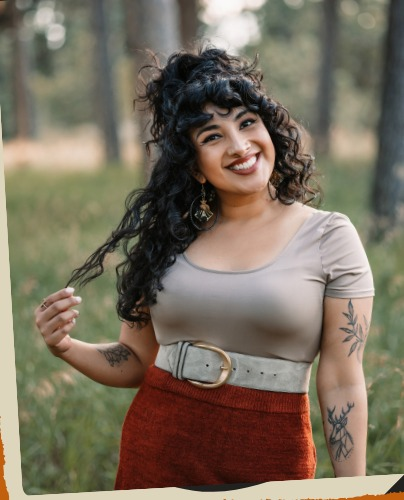
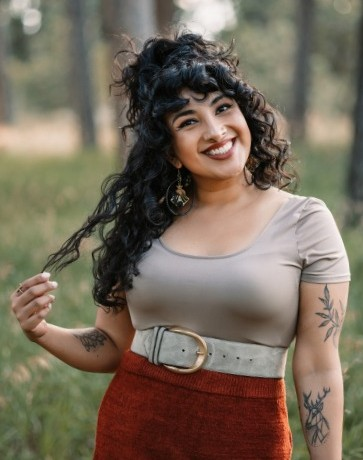
Restyle to match the resume: serif display, condensed sans, rules, topographic panels
Claude-Session: https://claude.ai/code/session_018WtTTL8vv3fxFjCsvYoeKi

diff --git a/index.html b/index.html
@@ -13,19 +13,19 @@
 <meta name="description" content="Bren Spector, senior graphic designer. Brand, print, pattern, art direction, events, and digital work.">
 <link rel="preconnect" href="https://fonts.googleapis.com">
 <link rel="preconnect" href="https://fonts.gstatic.com" crossorigin>
-<link rel="stylesheet" href="https://fonts.googleapis.com/css2?family=Bakbak+One&family=Archivo:ital,wght@0,400;0,500;0,600;1,400&family=Space+Mono:wght@400;700&display=swap">
+<link rel="stylesheet" href="https://fonts.googleapis.com/css2?family=Noto+Serif+Display:ital,wdth,wght@0,62.5..100,400..700;1,62.5..100,400..700&family=Nunito+Sans:ital,wdth,wght@0,75..100,300..800;1,75..100,300..800&display=swap">
 <style>
 /* Layout: nine pages rebuilt 1:1 from Bren's Canva deck. Each page is a 1920x1080 stage
    (1rem = 20 slide px) scaled to fit the window, stacked and wiped over each other on scroll.
    Shapes and doodles are the deck's own, lifted from the page exports. Phones get a flowing layout. */
 :root{
-  --ink:#212120;
-  --paper:#f8f6f1;
-  --rust:#b5652a;
-  --sand:#ded5bd;
-  --display:"Bakbak One","Arial Black",Impact,sans-serif;
-  --body:"Archivo","Helvetica Neue",Arial,sans-serif;
-  --mono:"Space Mono","Courier New",monospace;
+  --ink:#262522;
+  --paper:#F6F3EC;
+  --rust:#C2611C;
+  --sand:#F6F3EC;
+  --display:"Noto Serif Display",Georgia,serif;
+  --body:"Nunito Sans","Helvetica Neue",Arial,sans-serif;
+  --mono:"Nunito Sans","Helvetica Neue",Arial,sans-serif;
   --ease:cubic-bezier(.22,1,.36,1);
   color-scheme:light;
 }
@@ -34,20 +34,21 @@ html{font-size:16px;scroll-behavior:smooth}
   html{font-size:calc(min(100vw / 1920, 100vh / 1080) * 20)}
 }
 *,*::before,*::after{box-sizing:border-box}
-body{margin:0;background:var(--ink);color:var(--ink);font-family:var(--body);font-size:1rem;line-height:1.5;overflow-x:hidden;-webkit-font-smoothing:antialiased}
+body{margin:0;background:var(--ink);color:var(--ink);font-family:var(--body);font-stretch:85%;font-size:1rem;line-height:1.5;overflow-x:hidden;-webkit-font-smoothing:antialiased}
+.topo{position:absolute;inset:0;background:url(img/topo.png) center/120rem auto;opacity:.13;pointer-events:none}
 img{max-width:100%;display:block}
 p{margin:0}
-h1,h2{margin:0;font-family:var(--display);font-weight:400;line-height:1;letter-spacing:.01em;text-transform:uppercase}
+h1,h2{margin:0;font-family:var(--display);font-stretch:62.5%;font-weight:600;line-height:.92;letter-spacing:-.005em}
 .caption{font-style:italic}
 
 /* ---------- top bar + dots (fixed px, independent of the stage scale) ---------- */
 .bar{position:fixed;inset:0 0 auto 0;z-index:50;display:flex;align-items:center;justify-content:space-between;padding:calc(12px + env(safe-area-inset-top,0px)) 20px 12px;pointer-events:none;mix-blend-mode:difference;color:#fff;font-size:16px}
 .bar > *{pointer-events:auto}
-.brand{font-family:var(--mono);font-size:.78em;letter-spacing:.14em;text-transform:uppercase;text-decoration:none;color:inherit}
-.menu{display:flex;gap:1.6em;font-family:var(--mono);font-size:.74em;letter-spacing:.14em;text-transform:uppercase}
+.brand{font-family:var(--mono);font-stretch:80%;font-weight:600;font-size:.8em;letter-spacing:.16em;text-transform:uppercase;text-decoration:none;color:inherit}
+.menu{display:flex;gap:1.6em;font-family:var(--mono);font-stretch:80%;font-weight:600;font-size:.76em;letter-spacing:.16em;text-transform:uppercase}
 .menu a{color:inherit;text-decoration:none;padding:.3em 0;border-bottom:1.5px solid transparent}
 .menu a:hover,.menu a:focus-visible{border-bottom-color:currentColor;outline:none}
-.play{appearance:none;border:1.5px solid currentColor;background:transparent;color:inherit;font-family:var(--mono);font-size:.74em;letter-spacing:.12em;text-transform:uppercase;padding:.55em 1em;border-radius:999px;cursor:pointer;display:inline-flex;gap:.5em;align-items:center}
+.play{appearance:none;border:1.5px solid currentColor;background:transparent;color:inherit;font-family:var(--mono);font-stretch:80%;font-weight:600;font-size:.76em;letter-spacing:.12em;text-transform:uppercase;padding:.55em 1em;border-radius:999px;cursor:pointer;display:inline-flex;gap:.5em;align-items:center}
 .play:hover,.play:focus-visible{background:#fff;color:#000;outline:none}
 .play svg{width:.7em;height:.7em;fill:currentColor}
 .dots{position:fixed;right:14px;top:50%;transform:translateY(-50%);z-index:50;display:flex;flex-direction:column;gap:10px;margin:0;padding:0;list-style:none;mix-blend-mode:difference}
@@ -97,38 +98,44 @@ h1,h2{margin:0;font-family:var(--display);font-weight:400;line-height:1;letter-s
 #hero{background:var(--paper);color:var(--ink)}
 #hero .blob{transform-origin:50% 50%}
 #hero .blob-simple{left:1rem;top:.6rem;width:94rem;height:53rem;background:var(--ink);border-radius:34% 66% 50% 50% / 38% 40% 60% 62%;z-index:0}
-#hero .star-a{left:66rem;top:0;width:24rem;transform-origin:50% 55%}
+#hero .star-a{display:none}
+#hero .panel{left:60rem;top:0;width:36rem;height:54rem;background:var(--ink);overflow:hidden}
+#hero .panel .topo{position:absolute}
+#hero .panel .tag{position:absolute;left:4rem;bottom:4.2rem;color:var(--paper);font-family:var(--mono);font-stretch:80%;font-weight:600;font-size:.95rem;letter-spacing:.2em;text-transform:uppercase;line-height:1.9}
+#hero .panel .tag b{display:block;font-family:var(--display);font-stretch:62.5%;font-weight:500;font-size:3.6rem;letter-spacing:0;text-transform:none;line-height:1;margin-bottom:.6rem}
 #hero .star-b{left:0;top:26rem;width:23.5rem;transform-origin:45% 50%}
-.name{font-size:14.2rem;line-height:1}
+.name{font-size:15.4rem;line-height:.84;font-weight:500}
 .name span{position:absolute;display:block;white-space:nowrap;transform-origin:left center}
-.name .l1{left:9rem;top:7rem;--rot:-7deg;transform:rotate(var(--rot))}
-.name .l2{left:6.6rem;top:18rem;--rot:-4deg;transform:rotate(var(--rot))}
-.role{left:9.4rem;top:33.6rem;font-family:var(--mono);text-transform:uppercase;letter-spacing:.09em;font-size:1.78rem;line-height:1.3;white-space:nowrap}
-.dotline{left:9.4rem;top:39.4rem;width:10.6rem;border:0;border-top:.22rem dotted currentColor}
-.word{left:9.4rem;top:42.2rem;font-family:var(--mono);font-size:3.7rem;line-height:1}
-.meta{left:9.6rem;top:46.8rem;font-family:var(--mono);font-size:.9rem;letter-spacing:.18em;text-transform:uppercase;opacity:.85;white-space:nowrap}
+.name .l1{left:9rem;top:6.6rem;--rot:0deg}
+.name .l2{left:9rem;top:18.6rem;--rot:0deg;color:var(--rust)}
+.role{left:9.4rem;top:35.2rem;font-family:var(--mono);font-stretch:80%;font-weight:600;text-transform:uppercase;letter-spacing:.14em;font-size:1.3rem;line-height:1.5;white-space:nowrap}
+.dotline{left:9.4rem;top:40.4rem;width:10.6rem;border:0;border-top:.12rem solid var(--rust)}
+.word{left:9.4rem;top:42.4rem;font-family:var(--display);font-stretch:62.5%;font-weight:500;font-size:3.9rem;line-height:1}
+.meta{left:9.5rem;top:47.4rem;font-family:var(--mono);font-stretch:80%;font-weight:600;font-size:.9rem;letter-spacing:.2em;text-transform:uppercase;opacity:.8;white-space:nowrap}
 
 /* ---------- 2 · about ---------- */
 #about .visual{left:-16rem;top:0;width:61rem;height:54rem;object-fit:cover}
-#about h2{left:48.6rem;top:2rem;font-size:8rem;--rot:-5deg;transform:rotate(var(--rot));transform-origin:left bottom;white-space:nowrap}
-#about .text{left:48rem;top:14.4rem;width:46.2rem;font-size:1.7rem;line-height:1.38;letter-spacing:-.005em;text-align:justify;hyphens:manual;display:grid;gap:1.36em}
+#about h2{left:48rem;top:5rem;font-size:7rem;--rot:0deg;white-space:nowrap}
+#about .text{left:48rem;top:15.2rem;width:44rem;font-size:1.62rem;line-height:1.42;text-align:left;hyphens:manual;display:grid;gap:1.3em;padding-top:1.4rem;border-top:.12rem solid var(--rust)}
 #about .text p:first-child{text-align:left}
 
 /* ---------- 3 · how i see it ---------- */
 #how{background:var(--ink);color:var(--paper)}
 #how .blob{transform-origin:50% 50%}
-#how .cloud-a{left:60rem;top:4rem;width:30rem;opacity:.75}
+#how .cloud-a{display:none}
+#how .topo{position:absolute}
 #how .cloud-b{left:5.5rem;top:21.5rem;width:36.5rem}
-#how h2{left:9.4rem;top:9.6rem;font-size:6.4rem;letter-spacing:.03em;white-space:nowrap}
-#how .text{left:9.4rem;top:19.6rem;width:58rem;font-size:1.6rem;line-height:1.4;text-align:left;hyphens:manual;display:grid;gap:1.2em}
+#how h2{left:9.4rem;top:8.6rem;font-size:7rem;white-space:nowrap}
+#how .text{left:9.4rem;top:18.6rem;width:56rem;font-size:1.55rem;line-height:1.45;text-align:left;hyphens:manual;display:grid;gap:1.2em;padding-top:1.4rem;border-top:.12rem solid var(--rust)}
 
 /* ---------- 4 · work (flows at its own height; the only page that is not a fixed slide) ---------- */
 #work{height:auto;min-height:100vh;display:block;padding:0 0 6rem}
-.work-head{position:relative;height:22rem;overflow:hidden}
-.work-head .band{position:absolute;left:50%;top:0;width:128rem;max-width:none;height:auto;transform:translateX(-50%)}
-.work-head .band-star{position:absolute;left:0;top:0;width:14.5rem;transform-origin:30% 40%}
-.work-head h2{position:absolute;left:0;top:5rem;width:100%;text-align:center;color:var(--paper);font-size:6.9rem;--rot:-3deg;transform:rotate(var(--rot));white-space:nowrap}
-.ticker{position:absolute;left:0;right:0;top:13.4rem;overflow:hidden;color:var(--paper);font-family:var(--mono);font-size:.85rem;letter-spacing:.2em;text-transform:uppercase;opacity:.75;-webkit-mask-image:linear-gradient(90deg,transparent,#000 10%,#000 90%,transparent);mask-image:linear-gradient(90deg,transparent,#000 10%,#000 90%,transparent)}
+.work-head{position:relative;height:20rem;overflow:hidden;background:var(--ink)}
+.work-head .topo{position:absolute}
+.work-head .band{display:none}
+.work-head .band-star{display:none}
+.work-head h2{position:absolute;left:0;top:5.2rem;width:100%;text-align:center;color:var(--paper);font-size:6.6rem;--rot:0deg;white-space:nowrap}
+.ticker{position:absolute;left:0;right:0;top:13.4rem;overflow:hidden;color:var(--paper);font-family:var(--mono);font-stretch:80%;font-weight:600;font-size:.85rem;letter-spacing:.22em;text-transform:uppercase;opacity:.75;-webkit-mask-image:linear-gradient(90deg,transparent,#000 10%,#000 90%,transparent);mask-image:linear-gradient(90deg,transparent,#000 10%,#000 90%,transparent)}
 .ticker-track{display:inline-flex;gap:3.5rem;white-space:nowrap;animation:tick 40s linear infinite;padding-left:3.5rem}
 .ticker-track span::after{content:'\00b7';margin-left:3.5rem;opacity:.6}
 @keyframes tick{to{transform:translateX(-50%)}}
@@ -136,29 +143,31 @@ h1,h2{margin:0;font-family:var(--display);font-weight:400;line-height:1;letter-s
 .work-intro{max-width:44rem;margin:4rem auto 3rem;text-align:center;font-size:1.3rem;line-height:1.5;padding:0 2rem}
 .grid{display:grid;grid-template-columns:1fr 1fr;gap:2rem;max-width:88rem;margin:0 auto;padding:0 2rem}
 .tile{margin:0;display:grid;gap:.9rem}
-.tile img{width:100%;height:auto;aspect-ratio:3/2;object-fit:cover;border-radius:1.1rem;display:block}
-.tile figcaption{display:grid;gap:.25rem;padding:0 .2rem}
-.t-meta{font-family:var(--mono);font-size:.75rem;letter-spacing:.14em;text-transform:uppercase;color:var(--rust)}
-.tile strong{font-family:var(--body);font-weight:600;font-size:1.35rem;line-height:1.2;letter-spacing:-.01em}
-.t-desc{font-size:1rem;line-height:1.45;color:#3b3a37}
+.tile img{width:100%;height:auto;aspect-ratio:3/2;object-fit:cover;border-radius:.3rem;display:block}
+.tile figcaption{display:grid;gap:.3rem;padding:.9rem .1rem 0;border-top:.12rem solid var(--ink)}
+.t-meta{font-family:var(--mono);font-stretch:80%;font-weight:700;font-size:.78rem;letter-spacing:.16em;text-transform:uppercase;color:var(--rust)}
+.tile strong{font-family:var(--display);font-stretch:62.5%;font-weight:600;font-size:1.9rem;line-height:1.05;letter-spacing:-.005em}
+.t-desc{font-size:1.02rem;line-height:1.45;color:#3b3a37}
 
 /* ---------- 9 · thank you ---------- */
 #thanks{background:var(--sand);color:var(--ink)}
 #thanks .blob{transform-origin:30% 40%}
-#thanks .tulips{left:1rem;top:32.5rem;width:22.5rem;transform-origin:50% 100%}
-#thanks .frame{left:65.5rem;top:2.5rem;width:30.5rem}
-#thanks .photo{left:73.1rem;top:9.8rem;width:20.2rem;height:25rem;object-fit:cover}
-#thanks h2{font-size:15.4rem;line-height:1}
+#thanks .tulips{display:none}
+#thanks .frame{display:none}
+#thanks .panel{left:60rem;top:0;width:36rem;height:54rem;background:var(--ink);overflow:hidden}
+#thanks .panel .topo{position:absolute}
+#thanks .photo{left:66rem;top:10rem;width:24rem;height:30rem;object-fit:cover;outline:.14rem solid var(--rust);outline-offset:.9rem}
+#thanks h2{font-size:14rem;line-height:1;font-weight:500}
 #thanks h2 span{position:absolute;display:block;white-space:nowrap;transform-origin:left center}
-#thanks .t1{left:8.2rem;top:5.4rem;--rot:-7deg;transform:rotate(var(--rot))}
-#thanks .t2{left:23.6rem;top:20.6rem;--rot:-4deg;transform:rotate(var(--rot))}
-#thanks .signoff{left:24.75rem;top:40.4rem;white-space:nowrap;font-family:var(--mono);text-transform:uppercase;font-size:1.6rem;line-height:1.15;letter-spacing:.04em}
-#thanks .dotline{left:39.5rem;top:43.6rem;width:9.6rem;border:0;border-top:.22rem dotted var(--ink)}
-#thanks .sig{left:52.5rem;top:41rem;font-family:var(--mono);font-size:3.8rem;line-height:1}
-#thanks .credit{left:65.5rem;top:50.6rem;width:30rem;text-align:right;font-family:var(--mono);font-size:.8rem;letter-spacing:.16em;text-transform:uppercase;color:var(--ink);opacity:.6}
-#thanks .contact{left:24.75rem;top:46.6rem;display:flex;gap:.7rem;align-items:center;font-family:var(--mono);font-size:1rem}
-.contact .email{padding:.45em .9em;border:.1rem solid var(--ink);border-radius:999px;user-select:all}
-.contact button{appearance:none;border:0;background:var(--ink);color:var(--paper);font:inherit;padding:.55em 1em;border-radius:999px;cursor:pointer;letter-spacing:.06em;text-transform:uppercase;font-size:.8em}
+#thanks .t1{left:9rem;top:6.6rem;--rot:0deg}
+#thanks .t2{left:9rem;top:18.2rem;--rot:0deg;color:var(--rust)}
+#thanks .signoff{left:9.4rem;top:36.6rem;white-space:nowrap;font-family:var(--mono);font-stretch:80%;font-weight:600;text-transform:uppercase;font-size:1.25rem;line-height:1.5;letter-spacing:.14em}
+#thanks .dotline{left:9.4rem;top:43.2rem;width:10.6rem;border:0;border-top:.12rem solid var(--rust)}
+#thanks .sig{left:30rem;top:36.4rem;font-family:var(--display);font-style:italic;font-stretch:62.5%;font-weight:500;font-size:4.4rem;line-height:1;color:var(--rust)}
+#thanks .credit{left:64rem;top:49.6rem;width:28rem;text-align:left;font-family:var(--mono);font-stretch:80%;font-weight:600;font-size:.8rem;letter-spacing:.16em;text-transform:uppercase;color:var(--paper);opacity:.7}
+#thanks .contact{left:9.4rem;top:45.4rem;display:flex;gap:.7rem;align-items:center;font-family:var(--mono);font-stretch:85%;font-size:1rem}
+.contact .email{padding:.45em .9em;border:.1rem solid var(--ink);border-radius:.2rem;user-select:all}
+.contact button{appearance:none;border:0;background:var(--rust);color:var(--paper);font:inherit;font-weight:700;padding:.55em 1em;border-radius:.2rem;cursor:pointer;letter-spacing:.06em;text-transform:uppercase;font-size:.8em}
 .contact button:focus-visible{outline:2px solid var(--rust);outline-offset:2px}
 
 
@@ -179,7 +188,7 @@ h1,h2{margin:0;font-family:var(--display);font-weight:400;line-height:1;letter-s
 .lightbox{position:fixed;inset:0;z-index:80;background:rgba(20,20,19,.94);display:flex;align-items:center;justify-content:center;flex-direction:column;gap:14px;padding:calc(56px + env(safe-area-inset-top,0px)) 20px calc(20px + env(safe-area-inset-bottom,0px));opacity:0;pointer-events:none;transition:opacity .25s}
 .lightbox.open{opacity:1;pointer-events:auto}
 .lightbox img{max-width:min(1600px,96vw);max-height:calc(100vh - 150px);width:auto;height:auto;object-fit:contain;box-shadow:0 20px 60px rgba(0,0,0,.5);background:#fff}
-.lightbox figcaption{color:#f8f6f1;font-family:var(--mono);font-size:13px;letter-spacing:.06em;text-align:center;max-width:70ch}
+.lightbox figcaption{color:#f8f6f1;font-family:var(--mono);font-stretch:85%;font-size:13px;letter-spacing:.06em;text-align:center;max-width:70ch}
 .lightbox .lb-close{position:absolute;top:calc(14px + env(safe-area-inset-top,0px));right:16px;appearance:none;border:1.5px solid #fff;background:transparent;color:#fff;font-family:var(--mono);font-size:12px;letter-spacing:.12em;text-transform:uppercase;padding:.6em 1em;border-radius:999px;cursor:pointer}
 .lightbox .lb-nav{position:absolute;top:50%;transform:translateY(-50%);appearance:none;border:0;background:rgba(255,255,255,.12);color:#fff;width:44px;height:44px;border-radius:50%;cursor:pointer;font-size:20px;line-height:44px;text-align:center}
 .lightbox .lb-prev{left:16px}.lightbox .lb-next{right:16px}
@@ -207,26 +216,27 @@ body.lb-open{overflow:hidden}
   .stage > img{width:100%!important;height:auto!important}
   .full,#hero .blob-simple{display:none}
   #hero{background:var(--paper)}
-  #hero .star-a{position:absolute!important;width:36vw!important;z-index:0;right:-8vw;top:60px!important;left:auto!important}
-  .name{font-size:clamp(3.4rem,17vw,6rem);display:grid;z-index:1}
+  #hero .star-a,#hero .panel,#thanks .panel{display:none}
+  .name{font-size:clamp(3.8rem,19vw,6.6rem);display:grid;z-index:1}
   .name span{position:static!important;transform:none!important}
-  .name .l1{padding-left:.2em}
+  .name .l1{padding-left:0}
   .role{font-size:.85rem;margin-top:12px}
   .dotline{width:120px!important;margin:0}
   .word{font-size:1.7rem}
   #about .stage{padding-top:0;gap:0}
   #about .visual{aspect-ratio:900/1080;max-height:70svh;object-fit:cover;object-position:26% bottom;margin:0 -20px;width:calc(100% + 40px)!important;max-width:none}
-  #about h2{font-size:3rem;margin:28px 0 8px;transform:rotate(-3deg)!important;transform-origin:left bottom}
+  #about h2{font-size:3rem;margin:28px 0 8px}
   #about .text{font-size:1.05rem;text-align:left;gap:1em}
   #how{background:var(--ink)}
-  #how .cloud-a{position:absolute!important;width:52vw!important;right:-4vw;top:48px!important;z-index:0}
+  #how .cloud-a{display:none}
+  .topo{position:absolute!important;background-size:900px auto}
   #how .cloud-b{display:none}
   #how h2{font-size:2.8rem;text-align:left;z-index:1}
   #how .text{font-size:1.05rem;text-align:left;gap:1em}
   #thanks{background:var(--sand)}
   #thanks .stage{background:var(--sand);padding-top:88px}
   #thanks .tulips,#thanks .frame{display:none}
-  #thanks .photo{width:min(100%,320px)!important;aspect-ratio:404/500;object-fit:cover;border:10px solid var(--rust);border-radius:4px}
+  #thanks .photo{width:min(100%,320px)!important;aspect-ratio:404/500;object-fit:cover;outline:2px solid var(--rust);outline-offset:8px;margin:8px}
   #thanks h2{font-size:3.4rem;display:grid}
   #thanks h2 span{position:static!important;transform:none!important}
   #thanks .t2{padding-left:.6em}
@@ -236,16 +246,16 @@ body.lb-open{overflow:hidden}
   #thanks .contact{flex-wrap:wrap;font-size:.85rem}
   .menu{display:none}
   #work{padding:0 0 48px}
-  .work-head{height:200px;margin:0}
+  .work-head{height:180px;margin:0}
   .work-head .band{width:auto;min-width:100%;height:100%;left:50%;object-fit:cover;object-position:center bottom}
   .work-head .band-star{display:none}
-  .work-head h2{top:84px;font-size:2.4rem;white-space:normal;padding:0 20px;transform:rotate(-2deg)!important;text-align:left}
+  .work-head h2{top:72px;font-size:2.6rem;white-space:normal;padding:0 20px;text-align:left}
   .ticker{display:none}
   .work-intro{font-size:1.05rem;margin:28px auto 20px;text-align:left}
   .grid{grid-template-columns:1fr;gap:28px;padding:0 20px}
   .tile strong{font-size:1.15rem}
   .meta{font-size:.75rem;white-space:normal!important}
-  #thanks .credit{text-align:left;color:var(--ink);font-size:.7rem;margin-top:8px}
+  #thanks .credit{text-align:left;color:var(--ink);font-size:.7rem;margin-top:8px;opacity:.6}
   .cue{position:absolute!important;left:50%!important;bottom:14px!important;top:auto!important;width:auto!important;transform:translateX(-50%)!important;color:var(--paper)}
   .zoom:hover{transform:none}
 }
@@ -270,7 +280,7 @@ body.lb-open{overflow:hidden}
 <!-- 1 · cover -->
 <section class="scene" id="hero" aria-label="Cover">
   <div class="stage">
-    <img class="star-a" src="img/hero-star-a.png" alt="" data-anim="spin" style="--d:500ms" width="580" height="440">
+    <div class="panel" data-anim="right" style="--d:300ms"><div class="topo"></div><p class="tag"><b>Brand, print &amp; art direction</b>Ten pieces &middot; 2013 to 2026</p></div>
     <h1 class="name"><span class="l1" data-anim="drop" style="--d:250ms">Bren</span><span class="l2" data-anim="drop" style="--d:400ms">Spector</span></h1>
     <p class="role" data-anim="rise" style="--d:650ms">Senior graphic designer<br>Brand, print &amp; art direction</p>
     <hr class="dotline" data-anim="wipe" style="--d:850ms">
@@ -297,7 +307,7 @@ body.lb-open{overflow:hidden}
 <!-- 3 · how i see it -->
 <section class="scene" id="how" aria-label="How I see it">
   <div class="stage">
-    <img class="cloud-a" src="img/cloud-a.png" alt="" data-anim="rise" style="--d:500ms" width="690" height="550" loading="lazy" decoding="async">
+    <div class="topo"></div>
     <h2 data-anim="drop" style="--d:250ms">How I see it</h2>
     <div class="text">
       <p data-anim="rise" style="--d:400ms">Every piece has someone on the other end, and I picture them first. Maybe that's someone scrolling past a new collection on their phone, or a parent reading a flyer in a clinic waiting room with a toddler on their lap. Either way, my job is to make the important thing easy to spot and fun to look at. And I like work people can hold.</p>
@@ -310,8 +320,7 @@ body.lb-open{overflow:hidden}
 <!-- 4 · work -->
 <section class="scene cream flow" id="work" aria-label="Recent work">
   <div class="work-head">
-    <img class="band" src="img/band.png" alt="" width="2560" height="440" loading="lazy" decoding="async">
-    <img class="band-star" src="img/band-star.png" alt="" data-anim="spin" style="--d:400ms" width="290" height="340" loading="lazy" decoding="async">
+    <div class="topo"></div>
     <h2 data-anim="drop" style="--d:150ms">Recent work</h2>
     <div class="ticker" aria-hidden="true"><div class="ticker-track"><span>Brand</span><span>Patterns &amp; product</span><span>Campaigns</span><span>Print</span><span>Art direction</span><span>Events &amp; signage</span><span>Digital &amp; motion</span><span>English &amp; Spanish</span><span>Brand</span><span>Patterns &amp; product</span><span>Campaigns</span><span>Print</span><span>Art direction</span><span>Events &amp; signage</span><span>Digital &amp; motion</span><span>English &amp; Spanish</span></div></div>
   </div>
@@ -363,8 +372,7 @@ body.lb-open{overflow:hidden}
 <!-- 9 · thank you -->
 <section class="scene" id="thanks" aria-label="Thank you">
   <div class="stage">
-    <img class="tulips" src="img/tulips.png" alt="" data-anim="rise" style="--d:700ms" width="450" height="430" loading="lazy" decoding="async">
-    <img class="frame" src="img/frame.png" alt="" data-anim="spin" style="--d:450ms" width="610" height="770" loading="lazy" decoding="async">
+    <div class="panel" data-anim="right" style="--d:250ms"><div class="topo"></div></div>
     <img class="photo" src="img/bren-outdoor.jpg" alt="Bren Spector standing in a grassy field, smiling" data-anim="right" style="--d:350ms" width="404" height="500" loading="lazy" decoding="async">
     <h2><span class="t1" data-anim="drop" style="--d:200ms">Thank</span><span class="t2" data-anim="drop" style="--d:350ms">you!</span></h2>
     <p class="signoff" data-anim="rise" style="--d:500ms">I hope to hear<br>from you<br>soon!</p>
